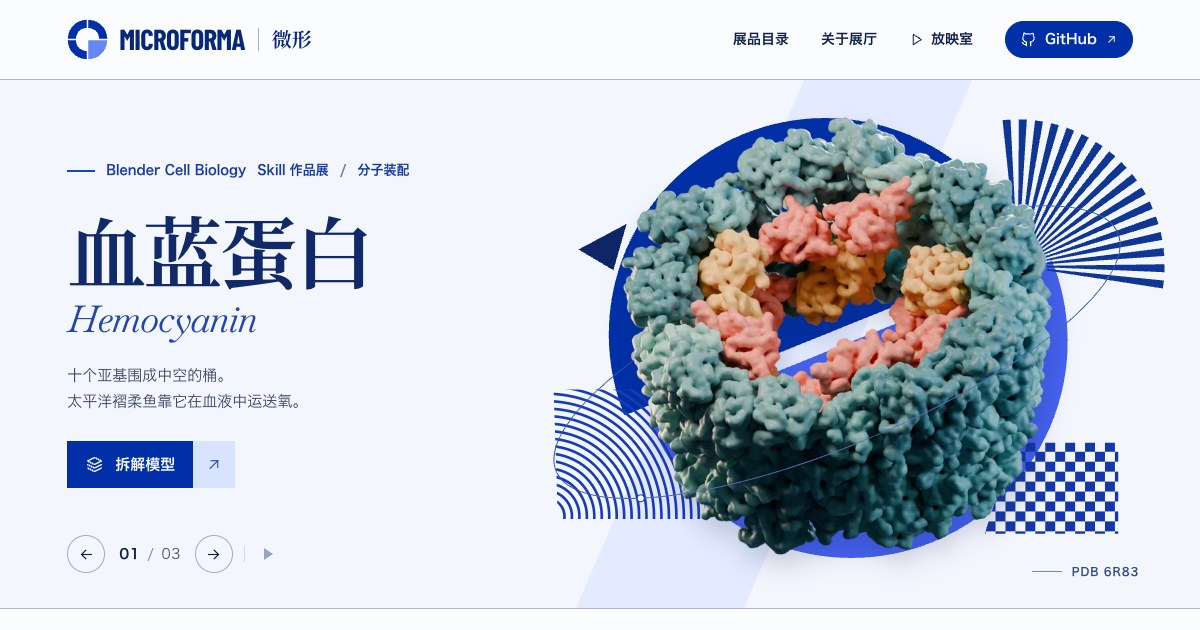
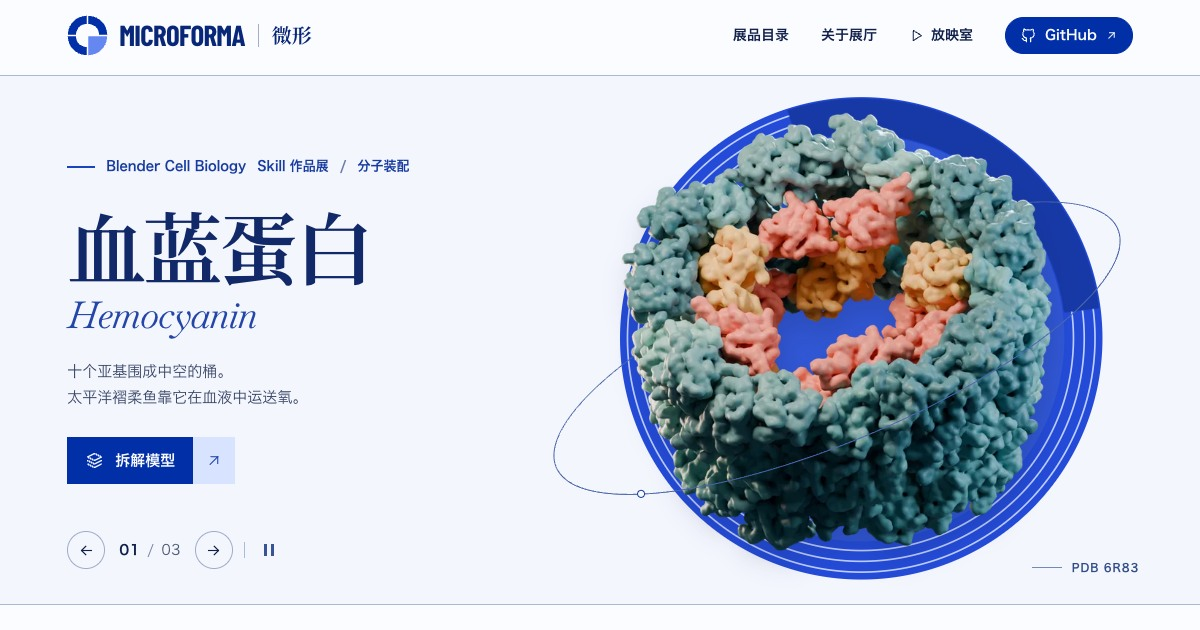
Unify exhibit geometry and correct orbit marker occlusion

diff --git a/docs/gallery.css b/docs/gallery.css
@@ -54,10 +54,13 @@ img{display:block;max-width:100%}
 .hero-object{position:absolute;left:49%;top:48.5%;width:72%;height:83%;object-fit:contain;transform:translate(-50%,-50%);filter:drop-shadow(4px 14px 12px rgba(17,32,79,.19))}
 .hero-layout[data-feature="bench"] .hero-object{width:80%;height:84%;top:49%}
 .hero-layout[data-feature="axoneme"] .hero-object{width:83%;height:79%}
-.orbit,.orbit-motion{position:absolute;left:49%;top:51.5%;width:97%;height:35%;border:1px solid #3454aa;border-radius:50%;transform:translate(-50%,-50%) rotate(-23deg)}
+.orbit{position:absolute;left:49%;top:51.5%;width:97%;height:35%;transform:translate(-50%,-50%) rotate(-23deg);color:#4b67ad}
+.orbit-back::before,.orbit-front::before{content:"";position:absolute;inset:0;border:1px solid currentColor;border-radius:50%}
+/* At either tip the continuous rear stroke sits beneath the whole 8px marker. */
 .orbit-back{z-index:-1}
-.orbit-front{clip-path:inset(70% 0 0 0);border-color:#526db7;opacity:.95}
-.art-caption{position:absolute;bottom:5.6%;right:3%;display:flex;align-items:center;gap:10px;color:#304b87;font:600 11px/1.2 var(--body);letter-spacing:.075em}
+.orbit-front{z-index:1;clip-path:inset(50% 6px -1px)}
+.orbit-motion{z-index:2;--orbit-period:17s}
+.art-caption{position:absolute;z-index:2;bottom:5.6%;right:3%;display:flex;align-items:center;gap:10px;color:#304b87;font:600 11px/1.2 var(--body);letter-spacing:.075em}
 .art-caption>span:first-child{width:30px;height:1px;background:#7489ba}
 .catalog{padding-top:clamp(39px,4.5vw,73px);padding-bottom:64px;scroll-margin-top:5px}
 .catalog-head{display:flex;align-items:center;justify-content:space-between;gap:24px;margin-bottom:24px}
@@ -135,7 +138,7 @@ body:has(.sheet[open]){overflow:hidden}
 @media(max-width:730px){
   .wrap{padding-inline:clamp(19px,5.5vw,35px)}.masthead{height:61px}.brand{gap:7px}.brand img{width:30px;height:30px}.wordmark{font-size:24px}.masthead nav{gap:15px;font-size:13px}.masthead .nav-about{display:none}.screening{padding:7px 11px;gap:4px}
   .hero-layout{grid-template-columns:1fr;grid-template-rows:auto auto auto;min-height:auto;padding-top:4px;padding-bottom:23px}
-  .hero-art{grid-column:1;grid-row:1;position:relative;right:auto;width:min(100%,490px);justify-self:center;height:clamp(222px,59vw,300px)}.hero-object{height:83%;width:66%;left:51%;top:50%}.hero-layout[data-feature="bench"] .hero-object{height:88%}.hero-layout[data-feature="axoneme"] .hero-object{width:76%;height:82%}.orbit,.orbit-motion{width:83%;height:29%;left:51%;top:52%}.art-caption{font-size:9px;bottom:4%;right:3%;gap:5px}.art-caption>span:first-child{width:19px}
+  .hero-art{grid-column:1;grid-row:1;position:relative;right:auto;width:min(100%,490px);justify-self:center;height:clamp(222px,59vw,300px)}.hero-object{height:83%;width:66%;left:51%;top:50%}.hero-layout[data-feature="bench"] .hero-object{height:88%}.hero-layout[data-feature="axoneme"] .hero-object{width:76%;height:82%}.orbit{width:83%;height:29%;left:51%;top:52%}.art-caption{font-size:9px;bottom:4%;right:3%;gap:5px}.art-caption>span:first-child{width:19px}
   .hero-copy{grid-column:1;grid-row:2;align-self:auto;padding-bottom:0;margin-top:6px}.feature-kicker{font-size:12px;gap:8px}.kicker-rule{width:20px}
   .hero h1{font-size:clamp(45px,10.5vw,65px);margin:10px 0 0;line-height:1.23}.hero-latin{font-size:clamp(26px,6.4vw,37px);margin:0 0 10px}.hero-summary{max-width:30em;font-size:15px;line-height:1.6}
   .primary-action{min-height:42px;margin-top:16px;padding-left:12px;font-size:14px}.action-arrow{width:35px;height:42px;padding:11px 8px;margin-left:3px}
@@ -151,16 +154,18 @@ body:has(.sheet[open]){overflow:hidden}
 @media(max-width:370px){.masthead nav{gap:8px}.wordmark{font-size:21px}.footer>span{width:100%}.art-caption{right:0}.filters button{padding-inline:9px}.stage-status{font-size:12px}}
 @media(prefers-reduced-motion:reduce){:root{scroll-behavior:auto}*,*::before,*::after{animation:none!important;transition:none!important}}
 .brand,.wordmark{color:#092778}
-.object-rail{position:absolute;inset:0}
-.orbit-motion{z-index:1;border:none;clip-path:inset(-9% -2% -9% -2%)}
-.orbit-motion i{width:8px;height:8px;display:block;border:1px solid #12399e;background:#f8faff;border-radius:50%;position:absolute;left:4%;top:66%}
-@supports(offset-path:ellipse(50% 50% at 50% 50%)){
-  .orbit-motion i{left:0;top:0;offset-path:ellipse(50% 50% at 50% 50%);offset-rotate:0deg;offset-distance:43%}
-  .art-idle .orbit-motion i{animation-play-state:running}
-  html[data-motion="on"] .orbit-motion i{animation:orbit-travel 17s linear infinite;animation-play-state:paused}
-  html[data-motion="on"].art-idle .orbit-motion i{animation-play-state:running}
+.object-rail{position:absolute;inset:0;z-index:0}
+.orbit-dot{position:absolute;left:50%;top:100%;transform:translate(-50%,-50%);width:8px;height:8px;border:1px solid #12399e;background:#f8faff;border-radius:50%}
+@supports(offset-path:ellipse(calc(50% - .5px) calc(50% - .5px) at 50% 50%)){
+  .orbit-dot{left:0;top:0;transform:none;offset-path:ellipse(calc(50% - .5px) calc(50% - .5px) at 50% 50%);offset-rotate:0deg;offset-distance:43%}
+  /* Both tracks start at 43% of the same lap. The marker changes layer only at a tangent. */
+  .orbit-motion,.orbit-dot{animation-duration:var(--orbit-period);animation-delay:calc(-.43 * var(--orbit-period));animation-iteration-count:infinite;animation-play-state:paused}
+  .orbit-motion{animation-name:orbit-depth;animation-timing-function:step-end}
+  .orbit-dot{animation-name:orbit-travel;animation-timing-function:linear}
+  html[data-motion="on"].art-idle :is(.orbit-motion,.orbit-dot){animation-play-state:running}
 }
-@keyframes orbit-travel{from{offset-distance:43%}to{offset-distance:143%}}
+@keyframes orbit-travel{from{offset-distance:0%}to{offset-distance:100%}}
+@keyframes orbit-depth{0%,100%{z-index:2}50%{z-index:-1}}
 .motion-toggle{position:relative;display:grid;place-items:center;width:38px;height:38px;margin-left:3px;color:#375496}
 .motion-toggle::before{content:"";position:absolute;left:-6px;height:16px;width:1px;background:#acbbdb}
 .motion-glyph{display:block;width:10px;height:12px;border-inline:3px solid currentColor}
@@ -186,7 +191,7 @@ html.page-enter .work-card:nth-child(-n+3) .card-image{animation:print-reveal .6
 .model-stage.is-ready canvas{animation:model-appear .27s ease-out both}
 @keyframes model-appear{from{opacity:.4}to{opacity:1}}
 html[data-motion="off"]{scroll-behavior:auto}
-html[data-motion="off"] *,html[data-motion="off"] *::before,html[data-motion="off"] *::after{animation:none!important;transition:none!important}
+html[data-motion="off"] :not(.orbit-motion,.orbit-dot),html[data-motion="off"] *::before,html[data-motion="off"] *::after{animation:none!important;transition:none!important}
 @media(hover:hover) and (pointer:fine){.motion-toggle:not(:disabled):hover{color:#002fa7;background:#e2eaff;border-radius:50%}}
 @media(max-width:730px){.motion-toggle{width:30px;height:34px;margin:0}.motion-toggle::before{left:-3px}.motion-glyph{width:8px;height:10px;border-width:2px}}
 @media(max-width:365px){.feature-pages{gap:6px}.feature-pages .circle-control{width:30px;height:30px}}
@@ -209,13 +214,11 @@ html[data-motion="off"] *,html[data-motion="off"] *::before,html[data-motion="of
   .invite-layout{display:grid;grid-template-columns:44px 1fr;gap:12px 14px;min-height:auto;padding-block:29px}.invite-symbol{width:42px;height:42px}
   .invite-copy p{font-size:13px;margin-top:4px}.invite-copy h2{font-size:25px}.invite-link{grid-column:2;justify-self:start;margin:0;padding:7px 11px;font-size:14px;gap:10px}
 }
-.hero::before{content:"";position:absolute;z-index:-1;inset:0;background:#e4eaff;clip-path:polygon(67% 0,81% 0,62% 100%,48% 100%);pointer-events:none}
 .art-print{position:absolute;inset:0;width:100%;height:100%;z-index:-2;overflow:visible}
 .plate-shape{display:none}
 [data-feature="hemocyanin"] .plate-molecule,[data-feature="bench"] .plate-workbench,[data-feature="axoneme"] .plate-axon{display:block}
-.fan-ink{transform-origin:591px 196px}
-html[data-motion="on"] .fan-ink{animation:fan-turn 8s cubic-bezier(.45,0,.55,1) infinite alternate;animation-play-state:paused}
-html[data-motion="on"].art-idle .fan-ink{animation-play-state:running}
-@keyframes fan-turn{from{transform:rotate(-4deg)}to{transform:rotate(5deg)}}
-@media(max-width:730px){.hero::before{clip-path:polygon(75% 0,104% 0,58% 55%,36% 55%)}.art-print{inset:-2% -2% 0;width:104%;height:104%}}
+html[data-motion="on"] .ring-accent{animation:ring-turn 8s cubic-bezier(.45,0,.55,1) infinite alternate;animation-play-state:paused}
+html[data-motion="on"].art-idle .ring-accent{animation-play-state:running}
+@keyframes ring-turn{from{transform:rotate(-4deg)}to{transform:rotate(5deg)}}
+@media(max-width:730px){.art-print{inset:2% 0;width:100%;height:96%}}
 @media(max-width:365px){.feature-pages{margin-top:12px;justify-self:start}}

diff --git a/docs/index.html b/docs/index.html
@@ -17,7 +17,7 @@
   <link rel="canonical" href="https://rmgx-sanae.github.io/blender-cell-biology-gallery/">
   <link rel="icon" href="assets/mark.svg" type="image/svg+xml">
   <link rel="preload" as="image" href="assets/plates/hemocyanin-cut.webp" imagesrcset="assets/plates/hemocyanin-cut-s.webp 590w, assets/plates/hemocyanin-cut.webp 969w" imagesizes="(max-width: 730px) 68vw, 39vw">
-  <link rel="stylesheet" href="gallery.css">
+  <link rel="stylesheet" href="gallery.css?v=2">
   <script defer src="gallery.js"></script>
 </head>
 <body id="top">
@@ -45,44 +45,42 @@
         </div>
         <div class="hero-art" aria-hidden="true">
           <svg class="art-print" viewBox="0 0 760 580" preserveAspectRatio="xMidYMid meet" aria-hidden="true" focusable="false">
-            <defs>
-              <pattern id="print-check" width="24" height="24" patternUnits="userSpaceOnUse"><path fill="#1536aa" d="M0 0h12v12H0zM12 12h12v12H12z"/></pattern>
-              <pattern id="print-stripes" width="13" height="13" patternUnits="userSpaceOnUse" patternTransform="rotate(36)"><path d="M0 0v13" stroke="#1234a5" stroke-width="5"/></pattern>
-              <pattern id="print-slat" width="20" height="20" patternUnits="userSpaceOnUse" patternTransform="rotate(-31)"><path d="M0 0v20" stroke="#1334a4" stroke-width="9"/></pattern>
-              <clipPath id="print-arc"><path d="M534 30h168v186H558z"/></clipPath>
-              <clipPath id="print-groove"><path d="M31 345h184v156H36z"/></clipPath>
-            </defs>
-            <g class="plate-shape plate-molecule">
-              <g transform="rotate(-22 380 289)">
-                <path fill="#002fa7" d="M103 271a261 261 0 0 1 522 0z"/>
-                <path fill="#4562f1" d="M129 291h522a261 261 0 0 1-522 0z"/>
+            <g class="plate-shape plate-molecule" transform="translate(402 288)">
+              <circle r="291" fill="#244bd8"/>
+              <circle r="245" fill="#3157d6"/>
+              <g fill="none" stroke="#becfff" stroke-width="2">
+                <circle r="256"/>
+                <circle r="269"/>
+                <circle r="282"/>
               </g>
-              <g class="fan-ink" fill="#103695"><path d="M587.3 161.2L572.5 20.0A177 177 0 0 1 582.1 19.2L589.2 161.0Z"/><path d="M591.2 161.0L592.1 19.0A177 177 0 0 1 601.7 19.3L593.1 161.1Z"/><path d="M595.1 161.2L611.7 20.2A177 177 0 0 1 621.2 21.6L597.0 161.5Z"/><path d="M598.9 161.9L631.0 23.6A177 177 0 0 1 640.3 26.0L600.7 162.4Z"/><path d="M602.6 163.0L649.8 29.1A177 177 0 0 1 658.8 32.5L604.4 163.7Z"/><path d="M606.2 164.5L667.9 36.6A177 177 0 0 1 676.5 41.0L607.9 165.4Z"/><path d="M609.6 166.4L685.1 46.1A177 177 0 0 1 693.1 51.4L611.2 167.4Z"/><path d="M612.8 168.6L701.1 57.4A177 177 0 0 1 708.5 63.6L614.2 169.8Z"/><path d="M615.7 171.2L715.8 70.5A177 177 0 0 1 722.4 77.4L617.0 172.6Z"/><path d="M618.3 174.1L728.9 85.0A177 177 0 0 1 734.7 92.7L619.4 175.6Z"/><path d="M620.5 177.2L740.3 101.0A177 177 0 0 1 745.3 109.2L621.5 178.8Z"/><path d="M622.4 180.6L749.9 118.1A177 177 0 0 1 753.9 126.8L623.2 182.3Z"/><path d="M623.9 184.2L757.6 136.1A177 177 0 0 1 760.6 145.3L624.5 186.0Z"/><path d="M625.0 187.9L763.2 154.9A177 177 0 0 1 765.1 164.4L625.4 189.7Z"/><path d="M625.7 191.7L766.7 174.2A177 177 0 0 1 767.6 183.8L625.9 193.6Z"/><path d="M626.0 195.6L768.0 193.8A177 177 0 0 1 767.8 203.4L626.0 197.5Z"/><path d="M625.8 199.4L767.1 213.4A177 177 0 0 1 765.9 223.0L625.6 201.3Z"/></g>
-              <g clip-path="url(#print-groove)" fill="none" stroke="#183cb8" stroke-width="3.2"><circle cx="22" cy="498" r="22"/><circle cx="22" cy="498" r="31"/><circle cx="22" cy="498" r="40"/><circle cx="22" cy="498" r="49"/><circle cx="22" cy="498" r="58"/><circle cx="22" cy="498" r="67"/><circle cx="22" cy="498" r="76"/><circle cx="22" cy="498" r="85"/><circle cx="22" cy="498" r="94"/><circle cx="22" cy="498" r="103"/><circle cx="22" cy="498" r="112"/><circle cx="22" cy="498" r="121"/><circle cx="22" cy="498" r="130"/><circle cx="22" cy="498" r="139"/><circle cx="22" cy="498" r="148"/><circle cx="22" cy="498" r="157"/><circle cx="22" cy="498" r="166"/><circle cx="22" cy="498" r="175"/><circle cx="22" cy="498" r="184"/><circle cx="22" cy="498" r="193"/><circle cx="22" cy="498" r="202"/><circle cx="22" cy="498" r="211"/><circle cx="22" cy="498" r="220"/></g>
-              <path fill="url(#print-check)" d="M585 409h127v110H551z"/>
-              <path fill="#0e2667" d="m61 176 58-31-16 56z"/>
+              <g class="ring-accent">
+                <circle r="268" fill="none" stroke="#1739a7" stroke-width="43"
+                        pathLength="100" stroke-dasharray="28 72" transform="rotate(-104)"/>
+              </g>
             </g>
-            <g class="plate-shape plate-workbench">
-              <path fill="#bad0fc" d="M109 76h467v65h61v324H170v-49h-61z"/>
-              <path fill="#1948d0" d="M83 92h184v57H155v135H83z"/>
-              <path fill="#002fa7" d="M578 243h66v166h58v66h-58v55H454v-61h124z"/>
-              <path fill="url(#print-stripes)" d="M503 37h189v116H503z"/>
-              <path fill="url(#print-check)" d="M38 369h145v101H38z"/>
-              <path fill="none" stroke="#2b52c5" stroke-width="2" d="M50 337V188h39m485 312h114v-66"/>
+            <g class="plate-shape plate-workbench" transform="translate(395 288) rotate(-6)">
+              <rect x="-250" y="-250" width="500" height="500" fill="#dbe5ff"/>
+              <rect x="-219" y="-219" width="438" height="438" fill="#3155cb"/>
+              <rect x="-190" y="-190" width="380" height="380" fill="#c7d7fc"/>
+              <g fill="none" stroke="#3255c8" stroke-width="2">
+                <rect x="-246" y="-246" width="492" height="492"/>
+                <rect x="-233" y="-233" width="466" height="466"/>
+              </g>
             </g>
-            <g class="plate-shape plate-axon">
-              <path fill="#a9c4ff" d="m120 306 378-235 143 187-377 236z"/>
-              <path fill="#002fa7" d="m28 352 450-299 31 46L59 398z"/>
-              <path fill="#405ff2" d="m175 500 471-315 32 47-470 316z"/>
-              <path fill="url(#print-slat)" d="m27 265 184-122 24 102L51 369z"/>
-              <g clip-path="url(#print-arc)" fill="none" stroke="#13379c" stroke-width="3.2"><circle cx="706" cy="20" r="24"/><circle cx="706" cy="20" r="33"/><circle cx="706" cy="20" r="42"/><circle cx="706" cy="20" r="51"/><circle cx="706" cy="20" r="60"/><circle cx="706" cy="20" r="69"/><circle cx="706" cy="20" r="78"/><circle cx="706" cy="20" r="87"/><circle cx="706" cy="20" r="96"/><circle cx="706" cy="20" r="105"/><circle cx="706" cy="20" r="114"/><circle cx="706" cy="20" r="123"/><circle cx="706" cy="20" r="132"/><circle cx="706" cy="20" r="141"/><circle cx="706" cy="20" r="150"/><circle cx="706" cy="20" r="159"/><circle cx="706" cy="20" r="168"/><circle cx="706" cy="20" r="177"/><circle cx="706" cy="20" r="186"/><circle cx="706" cy="20" r="195"/><circle cx="706" cy="20" r="204"/><circle cx="706" cy="20" r="213"/><circle cx="706" cy="20" r="222"/><circle cx="706" cy="20" r="231"/><circle cx="706" cy="20" r="240"/><circle cx="706" cy="20" r="249"/><circle cx="706" cy="20" r="258"/><circle cx="706" cy="20" r="267"/><circle cx="706" cy="20" r="276"/><circle cx="706" cy="20" r="285"/></g>
-              <path fill="#132b74" d="m548 496 124-84-34 112z"/>
+            <g class="plate-shape plate-axon" transform="rotate(-25 385 288)">
+              <rect x="95" y="141" width="580" height="294" fill="#dbe5ff"/>
+              <rect x="95" y="179" width="580" height="218" fill="#244bd8"/>
+              <rect x="95" y="179" width="580" height="22" fill="#1639ae"/>
+              <g fill="none" stroke="#3255c8" stroke-width="2">
+                <path d="M95 147h580m-580 12h580m-580 12h580"/>
+                <path d="M95 405h580m-580 12h580m-580 12h580"/>
+              </g>
             </g>
           </svg>
           <div class="orbit orbit-back"></div>
           <div class="object-rail"><img id="feature-image" class="hero-object" alt="" fetchpriority="high" src="assets/plates/hemocyanin-cut.webp" srcset="assets/plates/hemocyanin-cut-s.webp 590w, assets/plates/hemocyanin-cut.webp 969w" sizes="(max-width: 730px) 68vw, 39vw"></div>
           <div class="orbit orbit-front"></div>
-          <div class="orbit-motion"><i></i></div>
+          <div class="orbit orbit-motion"><i class="orbit-dot"></i></div>
           <div class="art-caption"><span></span><span id="feature-ref">PDB 6R83</span></div>
         </div>
         <div class="feature-pages" aria-label="切换精选展品">
